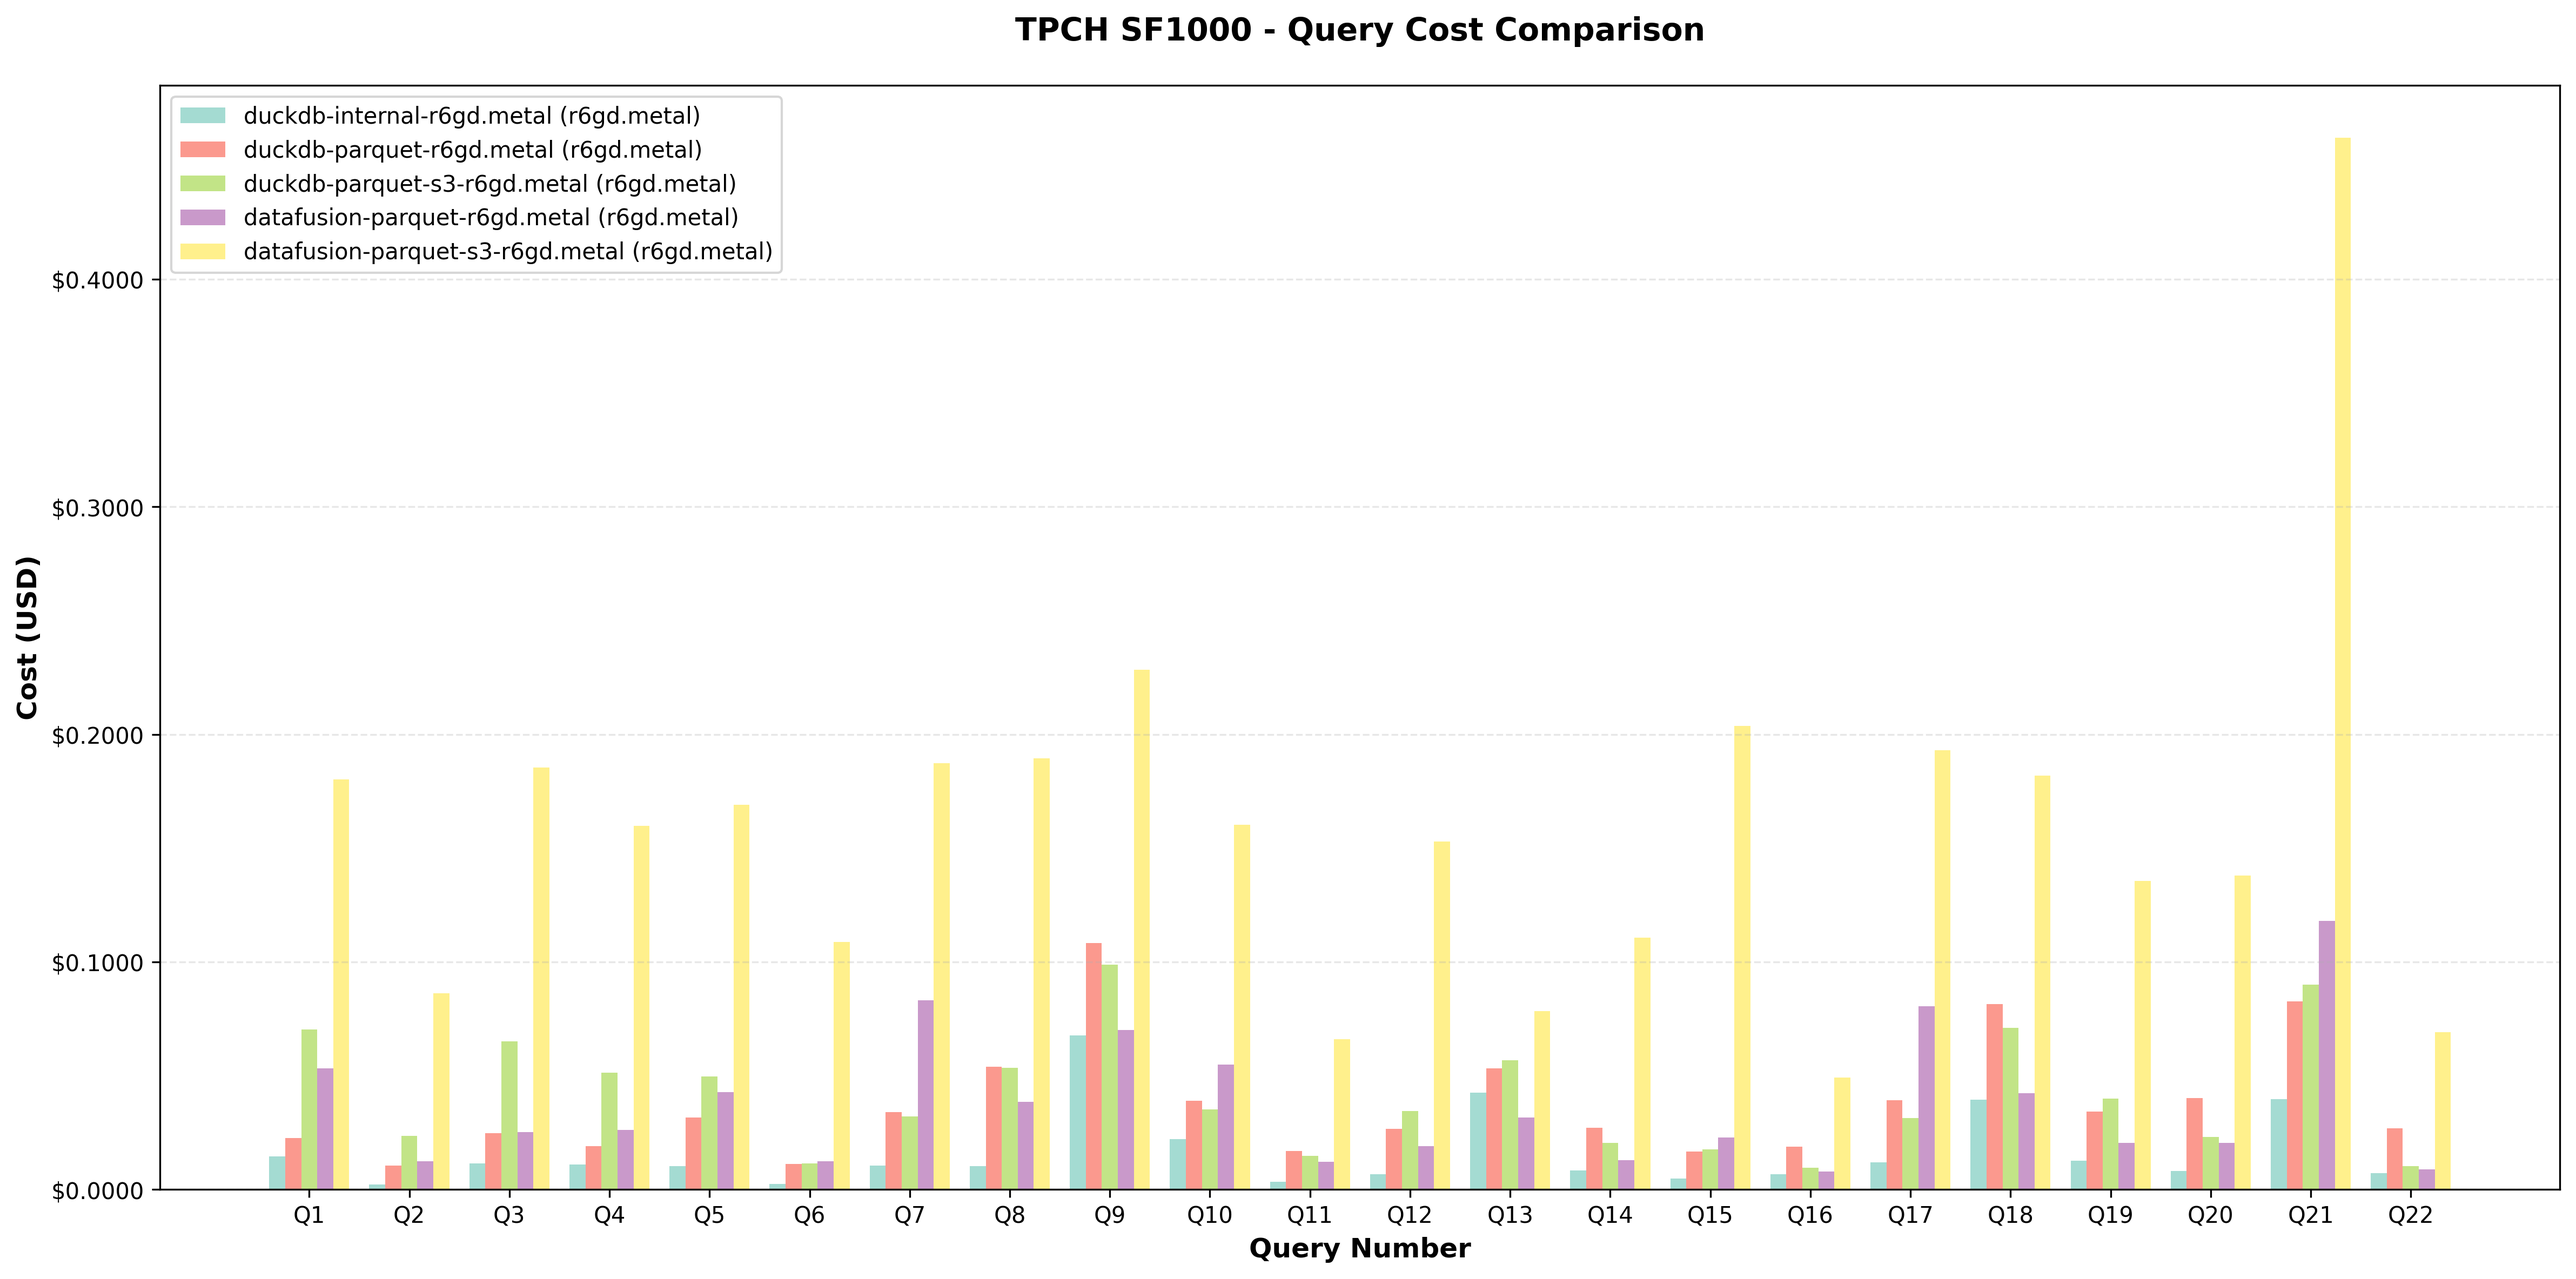
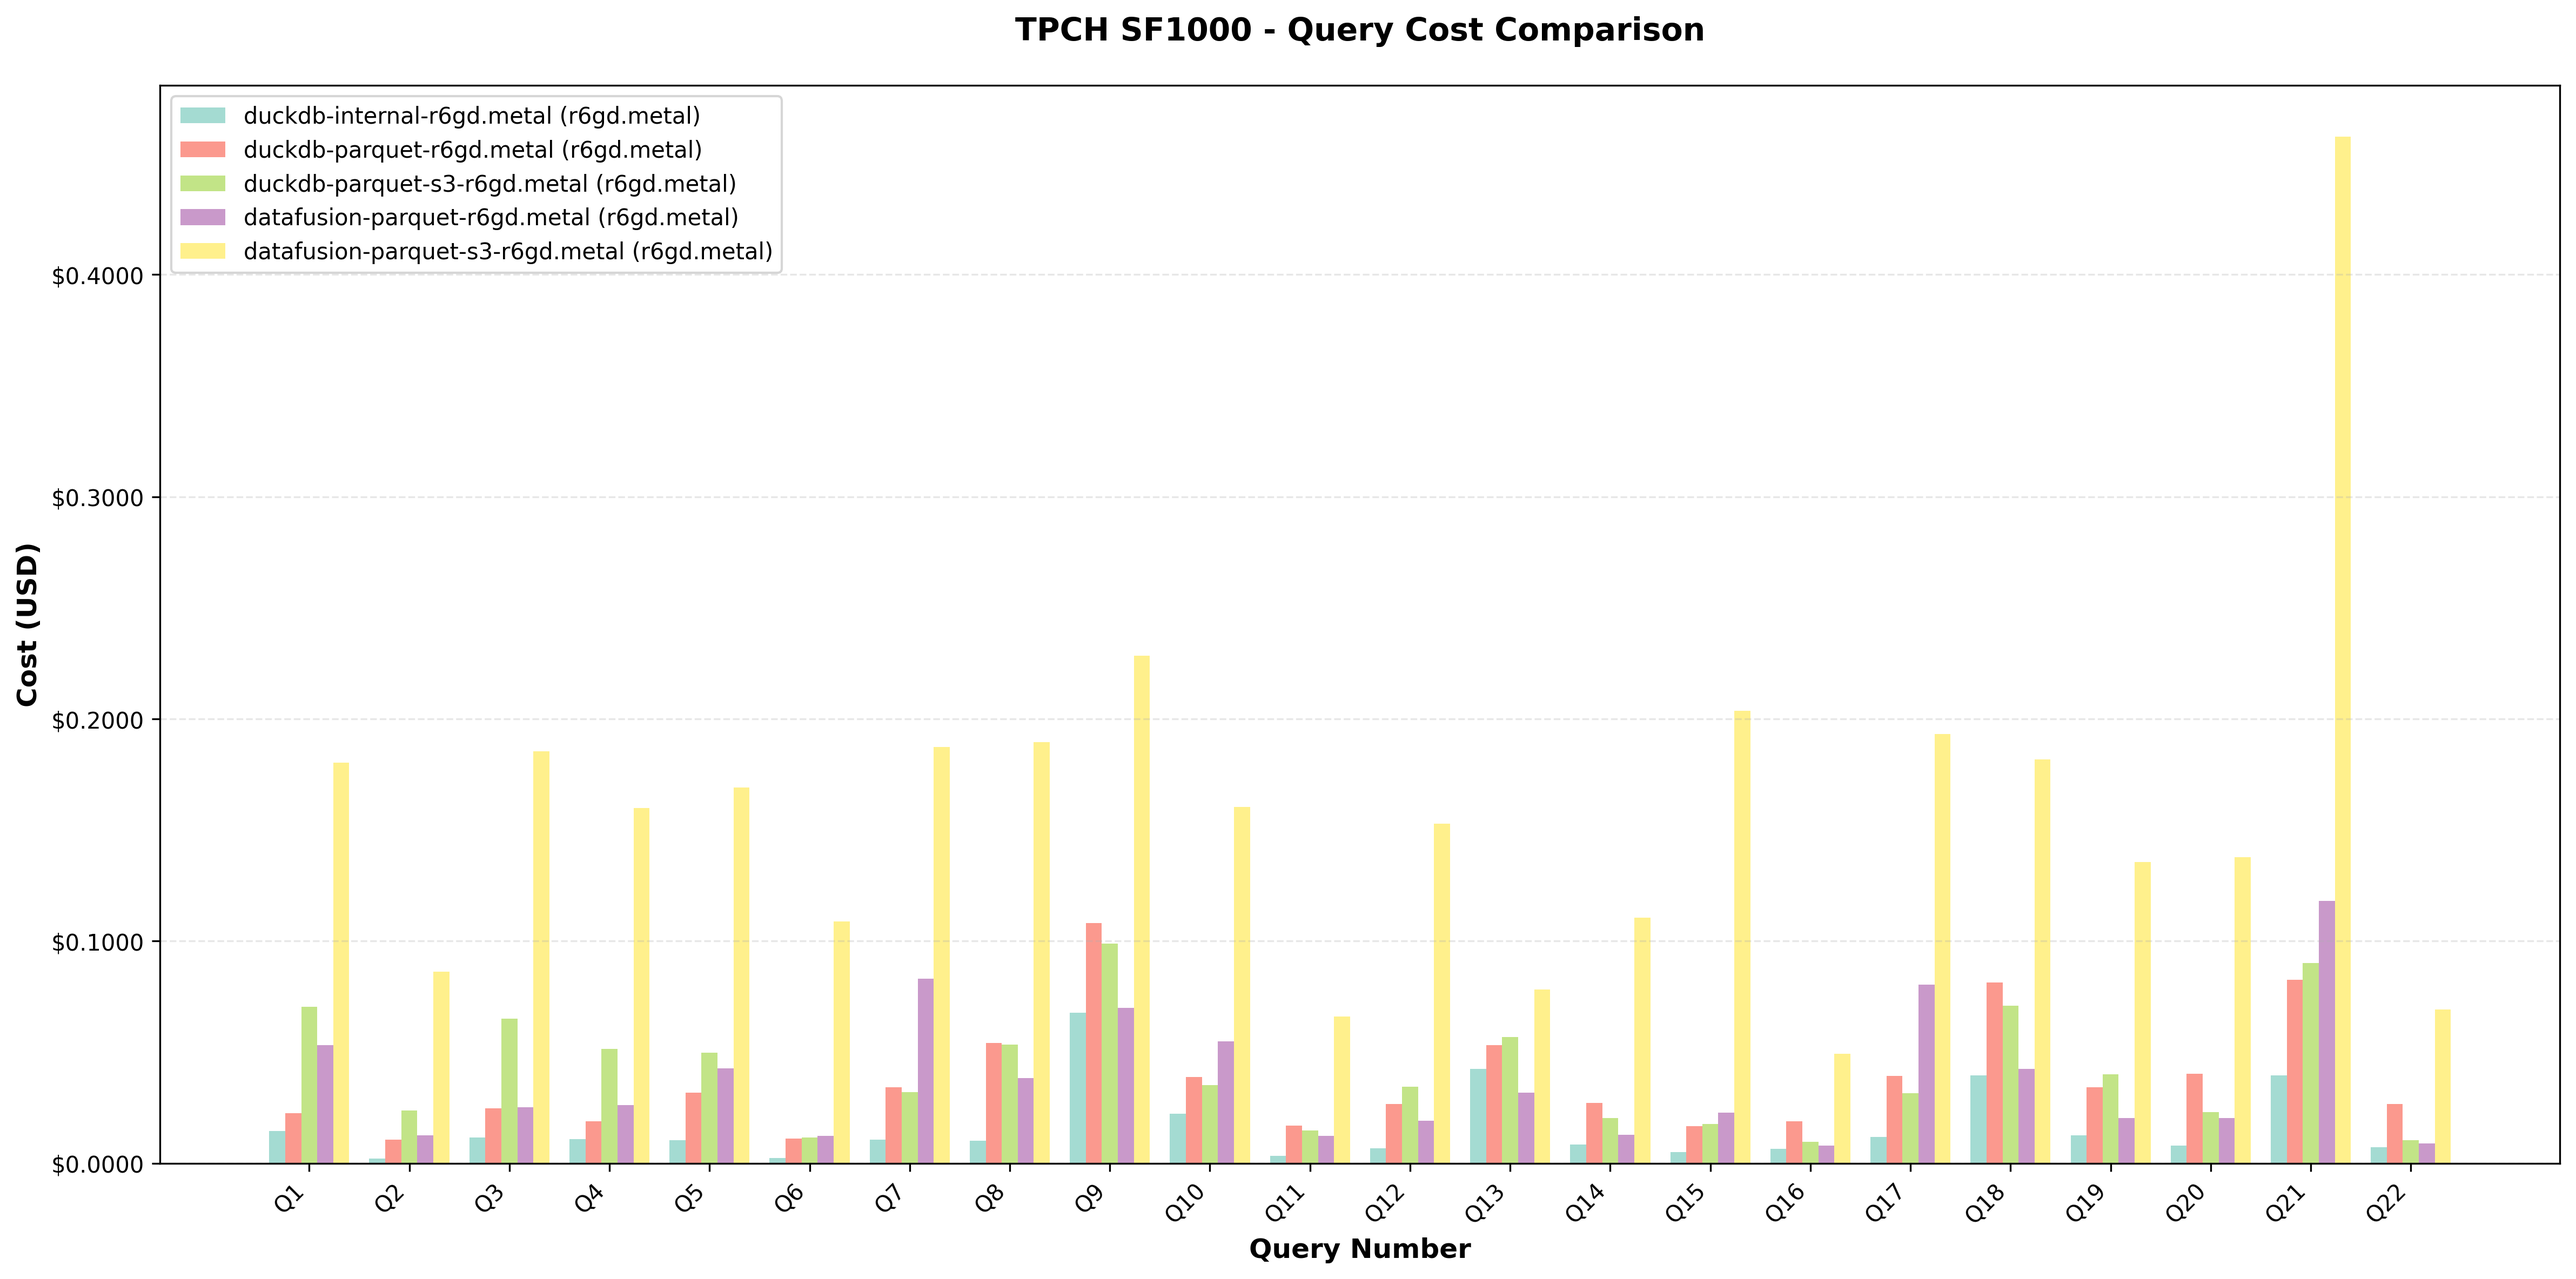
Rotate x-axis labels in benchmark visualizations for improved readability

diff --git a/visualize_benchmarks.py b/visualize_benchmarks.py
@@ -215,7 +215,7 @@ def create_bar_chart(data: Dict[str, Dict], title: str, ylabel: str,
     ax.set_ylabel(ylabel, fontsize=12, fontweight='bold')
     ax.set_title(title, fontsize=14, fontweight='bold', pad=20)
     ax.set_xticks(x)
-    ax.set_xticklabels([f"Q{q}" for q in all_queries], rotation=0)
+    ax.set_xticklabels([f"Q{q}" for q in all_queries], rotation=45, ha='right')
     ax.legend(loc='upper left', fontsize=10)
     ax.grid(axis='y', alpha=0.3, linestyle='--')
     
